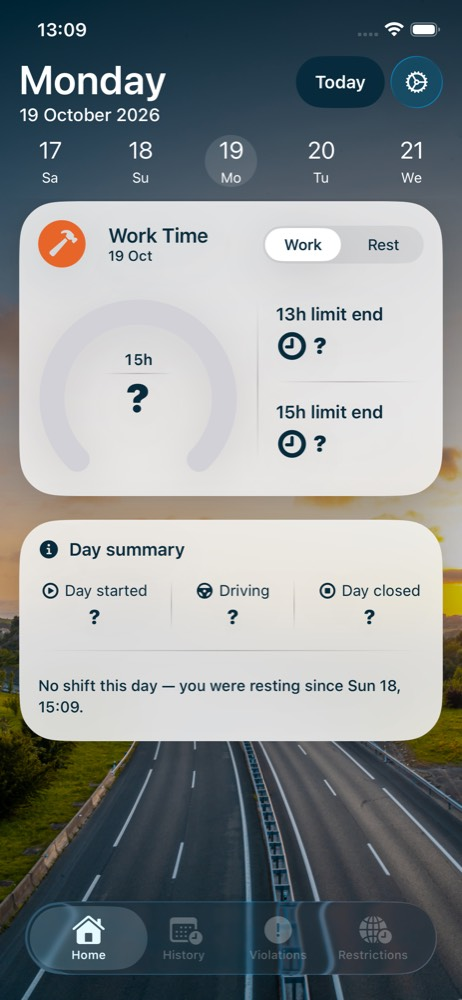
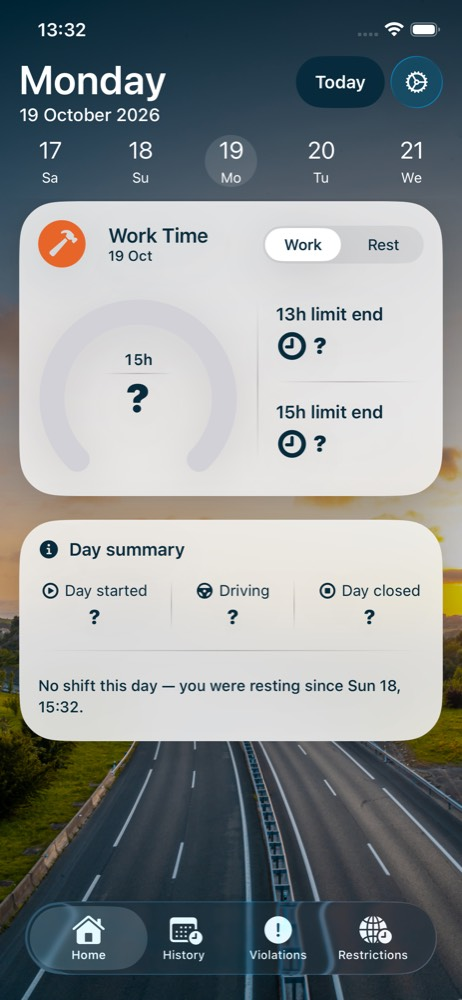
fix: disabled tabs are white like the active ones
The three disabled tabs keep their disabled state but no longer render
dimmed: the tab bar item appearance uses white for every state.

diff --git a/TachoBook/TachoBookApp.swift b/TachoBook/TachoBookApp.swift
@@ -15,6 +15,22 @@ struct TachoBookApp: App {
         for state in [UIControl.State.normal, .selected] {
             UISegmentedControl.appearance().setTitleTextAttributes([.foregroundColor: navy], for: state)
         }
+
+        // Tab bar: the disabled tabs (History, Violations, Restrictions) are white like the active one,
+        // not dimmed (Serhii, 2026-10-20). They stay disabled: a tap does nothing.
+        let white = UIColor(Color.tachoTextOnDark)
+        let item = UITabBarItemAppearance()
+        for state in [item.normal, item.selected, item.disabled, item.focused] {
+            state.iconColor = white
+            state.titleTextAttributes = [.foregroundColor: white]
+        }
+        let tabBar = UITabBarAppearance()
+        tabBar.configureWithDefaultBackground()
+        tabBar.stackedLayoutAppearance = item
+        tabBar.inlineLayoutAppearance = item
+        tabBar.compactInlineLayoutAppearance = item
+        UITabBar.appearance().standardAppearance = tabBar
+        UITabBar.appearance().scrollEdgeAppearance = tabBar
     }
 
     var body: some Scene {

diff --git a/docs/day-history/README.md b/docs/day-history/README.md
@@ -53,7 +53,7 @@ Day −1 of the seeded scenario (`-homeFlowUITest -seedReadyWeeklyRest`, yesterd
 
 ## Tab bar (F7: native bar, option A, updated 2026-10-20)
 
-The custom bar is replaced by the standard Apple `TabView` (`ContentView`): Home, History, Violations, Restrictions as in Figma node 490:26372. SF Symbols (as in Figma): `house`, `calendar.badge.clock`, `exclamationmark.circle.fill`, `globe.badge.clock.fill`. History, Violations and Restrictions are `.disabled(true)`: dimmed, a tap does nothing, no screens. Icons and labels are white in Light and Dark mode, the selected Home tab included (`.toolbarColorScheme(.dark, for: .tabBar)` and `.tint(white)`); the selection is the system's own highlight, not orange. Figma reference: [here](tabbar-figma.jpg) (it shows the orange pill, which Serhii overrode); app: [402 pt](tabbar-402.jpg), [390 pt](tabbar-390.jpg).
+The custom bar is replaced by the standard Apple `TabView` (`ContentView`): Home, History, Violations, Restrictions as in Figma node 490:26372. SF Symbols (as in Figma): `house`, `calendar.badge.clock`, `exclamationmark.circle.fill`, `globe.badge.clock.fill`. History, Violations and Restrictions are `.disabled(true)`: a tap does nothing, no screens. Icons and labels of all four tabs are white in Light and Dark mode, the disabled ones included (not dimmed; Serhii, 2026-10-20: `UITabBarItemAppearance` sets the disabled state to white in `TachoBookApp`), and the selected Home tab (`.toolbarColorScheme(.dark, for: .tabBar)` and `.tint(white)`); the selection is the system's own highlight, not orange. Figma reference: [here](tabbar-figma.jpg) (it shows the orange pill, which Serhii overrode); app: [402 pt](tabbar-402.jpg), [390 pt](tabbar-390.jpg).
 
 Accepted audit exclusion (temporary): SwiftUI gives the dimmed tabs no "not enabled" trait, so VoiceOver does not say "dimmed" and the audit reports "Missing trait: UIAccessibilityTraitNotEnabled" for them. `TachoBookUITests/AccessibilityAuditSupport.swift` ignores exactly that issue for the three tab buttons (audit type `.trait`, description contains `UIAccessibilityTraitNotEnabled`, element a button labelled History, Violations or Restrictions). Every other issue still fails. Remove it when those tabs become active.
 
